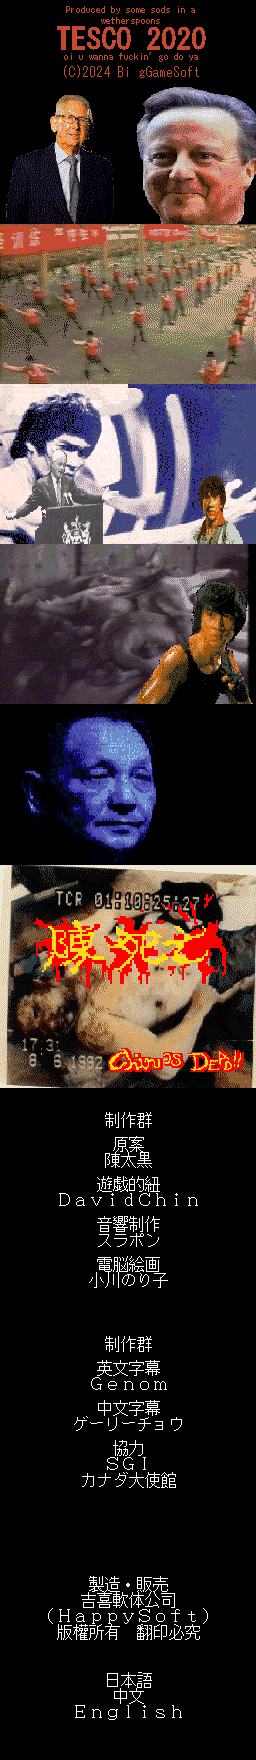
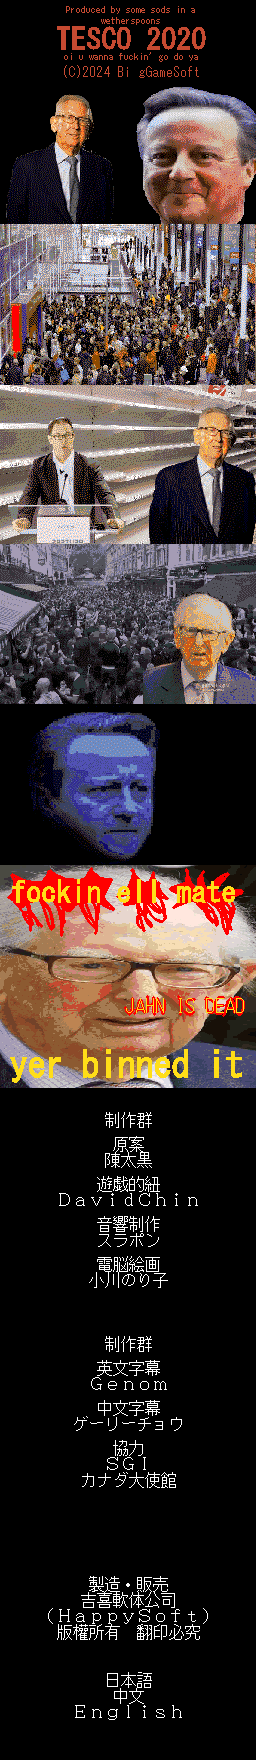
added cutscene graphics, changed credit slightly

diff --git a/index.html b/index.html
@@ -1,2 +1,2 @@
 <html><!-- Added by HTTrack --><meta http-equiv="content-type" content="text/html;charset=utf-8" /><!-- /Added by HTTrack -->
-<head><title>Tesco UK 2020</title><meta name="title" content="Tesco UK 2020 Free Online Game"><meta name="description" content="Play Best Game Online Today Tesco UK 2020 Free Download"><meta property="og:type" content="website"><meta property="og:url" content="http://tesco.krazeetobi.org/"><meta property="og:title" content="Tesco UK 2020 Free Online Game"><meta property="og:description" content="Play Best Game Online Today Tesco UK 2020 Free Download Video Game Online"><meta property="og:image" content="cover.png"><meta property="twitter:card" content="summary_large_image"><meta property="twitter:url" content="http://tesco.krazeetobi.org/"><meta property="twitter:title" content="Tesco UK 2020 Free Online Game"><meta property="twitter:description" content="Play Best Game Online Today Tesco UK 2020 Free Download Video Game Online"><meta property="twitter:image" content="cover.png"><link rel="icon" href="logo.png"><script defer="defer" src="bundle.js"></script><link href="main.css" rel="stylesheet"></head><body><div class="controlBox"><span style="font-size: xx-large;">Tesco UK 2020</span><p style="font-style: bold;">Version 0.3</p><p style="font-style: italic;">Currently in development!<br>English: Incomplete<br>Japanese: Incomplete<br>Chinese: Incomplete</p>Controls:<br>←↑↓→ - Move<br>Z - Shoot/Accept/Skip<p style="font-style: italic;">Contributors: SuperN64 (original code), KrazeeTobi (code modification), Olivia (art)</p></div></body></html>
+<head><title>Tesco UK 2020</title><meta name="title" content="Tesco UK 2020 Free Online Game"><meta name="description" content="Play Best Game Online Today Tesco UK 2020 Free Download"><meta property="og:type" content="website"><meta property="og:url" content="http://tesco.krazeetobi.org/"><meta property="og:title" content="Tesco UK 2020 Free Online Game"><meta property="og:description" content="Play Best Game Online Today Tesco UK 2020 Free Download Video Game Online"><meta property="og:image" content="cover.png"><meta property="twitter:card" content="summary_large_image"><meta property="twitter:url" content="http://tesco.krazeetobi.org/"><meta property="twitter:title" content="Tesco UK 2020 Free Online Game"><meta property="twitter:description" content="Play Best Game Online Today Tesco UK 2020 Free Download Video Game Online"><meta property="twitter:image" content="cover.png"><link rel="icon" href="logo.png"><script defer="defer" src="bundle.js"></script><link href="main.css" rel="stylesheet"></head><body><div class="controlBox"><span style="font-size: xx-large;">Tesco UK 2020</span><p style="font-style: bold;">Version 0.3</p><p style="font-style: italic;">Currently in development!<br>English: Incomplete<br>Japanese: Incomplete<br>Chinese: Incomplete</p>Controls:<br>←↑↓→ - Move<br>Z - Shoot/Accept/Skip<p style="font-style: italic;">Contributors: SuperN64 (original code), KrazeeTobi (code modification), obclBigOil (art)</p></div></body></html>
